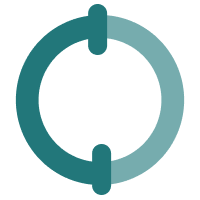
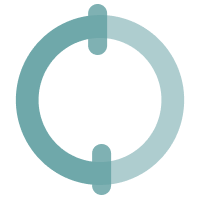
updated style of midtoolbutton

Changed region(s): [[0.06, 0.0, 0.93, 0.99]]

diff --git a/static/dark_theme.css b/static/dark_theme.css
@@ -31,7 +31,7 @@ QMenu::item:checked
     }
 QMenu::indicator:checked
     {
-        image: url(@Path/check.png)
+        image: url(@Path/check.png);
     }
 QMenuBar
     {
@@ -393,7 +393,7 @@ QSlider::handle:horizontal
     }
 
 
-/* ToolButton and MidToolButton */
+/* ToolButton */
 #ToolButton
     {
         background-color: rgb(70, 70, 70);
@@ -412,20 +412,51 @@ QToolButton#ToolButton::menu-indicator
         top: 4px;
         background-color: rgb(70, 70, 70);
     }
-#MidToolButton {
+
+
+/* MidToolButton */
+#MidToolButton:enabled
+    {
         icon-size: 28px;
         background-color: rgb(70, 70, 70);
     }
+#MidToolButton:disabled 
+    {
+        icon-size: 28px;
+        background-color: rgb(52, 49, 49);;
+    }
+#MidToolButton[popupMode="1"]
+    {
+        padding-right: 30px;
+        qproperty-autoRaise: true;
+    }
+#MidToolButton::menu-button
+    {
+        width: 20px;
+        background-color: rgb(70, 70, 70);
+    }
+#MidToolButton::menu-button:hover
+    {
+        background-color: rgba(95, 158, 160, 70);
+    }
+#MidToolButton::menu-arrow
+    {
+        image: url(@Path/dropdown-enabled-arrow.png);
+    }
+#MidToolButton::menu-arrow:disabled
+    {
+        image: url(@Path/dropdown-disabled-arrow.png);
+    }
 
 
-/*  Custom DropDownButton style */
+/* DropDownButton */
 #DropDownButton:enabled
     {
         background-color: rgb(70, 70, 70);
         color: rgb(255, 255, 255);
         padding-left: 6px;
-        padding-top: 6px;
-        padding-bottom: 6px;
+        padding-top: 4.6px;
+        padding-bottom: 4.6px;
         padding-right: 35px;
     }
 #DropDownButton:disabled 
@@ -433,8 +464,8 @@ QToolButton#ToolButton::menu-indicator
         background-color: rgb(70, 70, 70);
         color: rgb(128, 128, 128);
         padding-left: 6px;
-        padding-top: 6px;
-        padding-bottom: 6px;
+        padding-top: 4.6px;
+        padding-bottom: 4.6px;
         padding-right: 35px;
     } 
 #DropDownButton[popupMode="1"]
@@ -449,7 +480,7 @@ QToolButton#ToolButton::menu-indicator
     }
 #DropDownButton::menu-button:hover
     {
-        background-color: rgba(95, 158, 160, 20);
+        background-color: rgba(95, 158, 160, 70);
     }
 #DropDownButton::menu-arrow
     {
